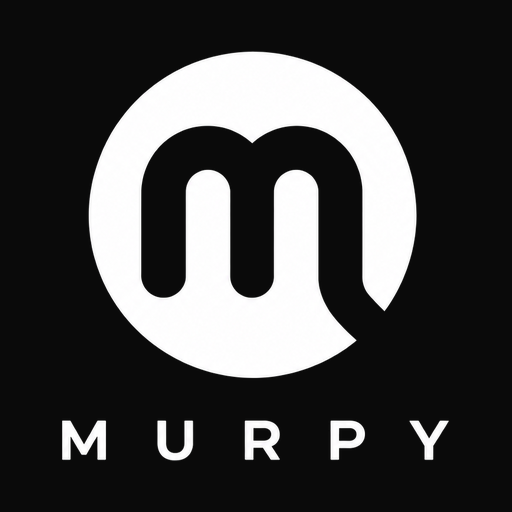
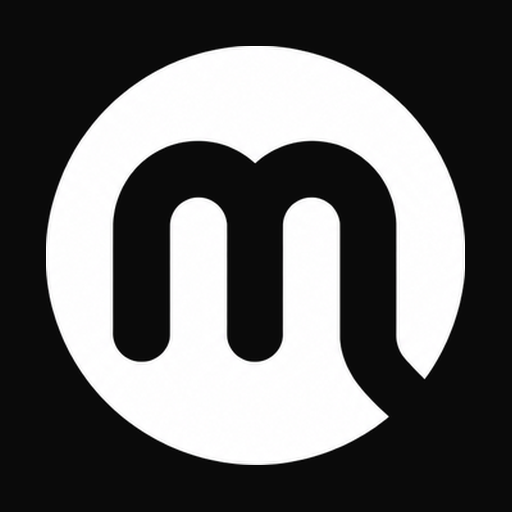
fix(squad): 멤버 줄의 '실명' 버튼만 제거 (괄호 표시는 유지) + 앱 아이콘 = M 마크만 (sw v591)
대표 8-14: "입금 우측에 실명 저거만 없애달란 소리였는데 왼쪽에 닉네임 우측에 괄호로
들어간 건 왜 없앴냐." — 내가 반대로 지웠다. 되돌린다.

1) 멤버 탭 이름 = 다시 '닉네임 (실명)'. 지운 건 **입금 칩 오른쪽의 '실명' 버튼**뿐이다.
   줄이 캐릭터·이름·상태·입금·실명·내보내기까지 붙어 너무 길었다.
   → 보이는 건 그대로, **고치는 자리만** 톡 > 명단(부위 배정)의 '실명' 버튼 하나로 모은다.

2) 아이콘에서 'MURPY' 글씨 제거 (대표 8-14: "다운로드 받았을 때는 m 글씨만 있는 게 멋있다").
   icon-192/512/maskable = 원형 M 마크만, 캔버스를 82%(마스커블 64%) 채운다.
   정식 로고(글씨 포함)는 icon-full-512.png 로 보관 — 스토어 설명·문서용.

3) 푸시 알림 뱃지 분리 (대표 8-14: "로고가 너무 크다").
   icon = 크게 뜨는 그림, badge = 상태표시줄의 작은 실루엣인데 **둘 다 icon-192** 를 써서
   상태표시줄에 큰 로고가 우겨넣어져 뭉갰다 → badge-72.png(흰 원 + 뚫린 M) 신규.

Changed region(s): [[0.0625, 0.0625, 0.9062, 0.9062], [0.7812, 0.8125, 0.875, 0.9062]]

diff --git a/index.html b/index.html
@@ -9346,7 +9346,7 @@ document.getElementById('create-crew-panel').querySelector('.back-btn').addEvent
 
 // ===== 서비스 워커 등록 (PWA 홈화면 설치) =====
 // ★배포할 때 sw.js 의 murpy-vNNN 과 **같은 숫자로** 올릴 것. 이게 CDN 캐시를 깬다.
-window._SW_V = '590';
+window._SW_V = '591';
 // 마이페이지 → 베타 피드백 페이지(murpy.app/survey). 앱 버전을 같이 넘겨야
 // "몇 버전에서 난 버그냐"를 제보자에게 안 묻고도 알 수 있다.
 // ★함수 선언으로 두지 말고 window 에 바로 붙인다 — onclick 은 모듈 스코프를 못 본다(브릿지 패턴).
@@ -21368,9 +21368,7 @@ window._sqRenderDetailInner = function () {
         <div onclick="${openMe}" style="flex-shrink:0;cursor:pointer;${wait?'opacity:.62':''}">${window.mwMiniCharHtml ? window.mwMiniCharHtml(m.character, 40) : ''}</div>
         <div onclick="${openMe}" style="min-width:0;flex:1;cursor:pointer;${wait?'opacity:.62':''}">
           <div style="display:flex;align-items:center;gap:5px;font-size:13.5px;font-weight:700;color:#fff">
-            <!-- ★멤버 탭엔 닉네임만 (대표 8-14: "실명까지 뜨니 난잡하다").
-                 실명은 **톡 > 명단(부위 배정)** 에서만 괄호로 보이고, 고치는 것도 거기서 한다. -->
-            ${esc((m && m.nickname) || '익명')} ${uid===s.hostUid?crown:''} ${window._sqHostBadge ? window._sqHostBadge(uid) : ''}
+            ${esc(window._sqShowName(m))} ${uid===s.hostUid?crown:''} ${window._sqHostBadge ? window._sqHostBadge(uid) : ''}
             <!-- ★운영진도 **왕관**으로 표시한다 — 리더와 같은 자리, 같은 모양, 색만 다르다(대표 8-14).
                  리더 = 황금 왕관 / 운영진 = 핑크 왕관.
                  역할은 한눈에 읽히는 게 중요하고, 글자 배지보다 아이콘이 줄을 덜 잡아먹는다.
@@ -21401,7 +21399,10 @@ window._sqRenderDetailInner = function () {
         <!-- ★실명 메모는 **여기에도** 둔다(대표 8-14). 배정 시트에만 두면
              부위 판을 껐거나(요가·댄스처럼) 판이 없는 종목에선 갈 길이 없어 못 붙인다.
              가입자·임시계정 구분 없이 붙는다 — 가입자도 닉네임을 쓰는 사람이 많다. -->
-        ${_canApprove && uid !== me ? `<button onclick="window.sqRenameMember('${s.id}','${uid}')" aria-label="실명 메모" style="flex-shrink:0;background:none;border:none;padding:6px 3px;cursor:pointer;font-family:inherit;font-size:10.5px;font-weight:700;color:${m.alias ? '#F5C24B' : 'rgba(255,255,255,.32)'}">실명</button>` : ''}
+        <!-- ★'실명' 버튼은 이 줄에서 뺐다 (대표 8-14: "입금 우측에 실명 저것만 없애라").
+             줄이 캐릭터·이름·상태·입금·실명·내보내기까지 붙어 너무 길었다.
+             ★표시는 그대로다 — 왼쪽 이름은 여전히 '닉네임 (실명)' 으로 나온다.
+               **고치는 자리만** 톡 > 명단(부위 배정)의 '실명' 버튼 하나로 모은다. -->
         ${_canApprove && uid !== s.hostUid && uid !== me ? `<button onclick="window.sqKickMember('${s.id}','${uid}','${(m.nickname||'').replace(/'/g,"").replace(/</g,'&lt;')}')" aria-label="내보내기" style="flex-shrink:0;background:none;border:none;color:rgba(255,77,103,.55);cursor:pointer;padding:6px 4px;font-family:inherit;display:flex;align-items:center">
             <svg width="15" height="15" viewBox="0 0 24 24" fill="none" stroke="currentColor" stroke-width="2.2" stroke-linecap="round"><path d="M18 6 6 18M6 6l12 12"/></svg>
           </button>` : ''}

diff --git a/firebase-messaging-sw.js b/firebase-messaging-sw.js
@@ -23,8 +23,10 @@ messaging.onBackgroundMessage(payload => {
   const n = (payload && payload.data) || {};
   self.registration.showNotification(n.title || '머피', {
     body: n.body || '',
+    // ★icon = 알림에 크게 뜨는 그림. badge = 상태표시줄의 작은 흑백 실루엣.
+    //   둘 다 icon-192 를 쓰면 상태표시줄에 큰 로고가 우겨넣어져 뭉개진다(대표 8-14: "로고가 너무 크다").
     icon: './icon-192.png',
-    badge: './icon-192.png',
+    badge: './badge-72.png',
     data: n,
     tag: n.type || 'murpy',
     renotify: true

diff --git a/sw.js b/sw.js
@@ -1,7 +1,7 @@
 // 배포마다 이 버전을 올려야 자동 새버전 적용(새로고침)이 동작함
-const CACHE_NAME = 'murpy-v590';
-const STATIC_CACHE = 'murpy-static-v590';
-const CDN_CACHE = 'murpy-cdn-v590';
+const CACHE_NAME = 'murpy-v591';
+const STATIC_CACHE = 'murpy-static-v591';
+const CDN_CACHE = 'murpy-cdn-v591';
 // 이미지 캐시는 버전 안 붙임 → 코드/HTML 배포해도 유지(URL이 곧 버전)
 const IMG_CACHE = 'murpy-img';
 
